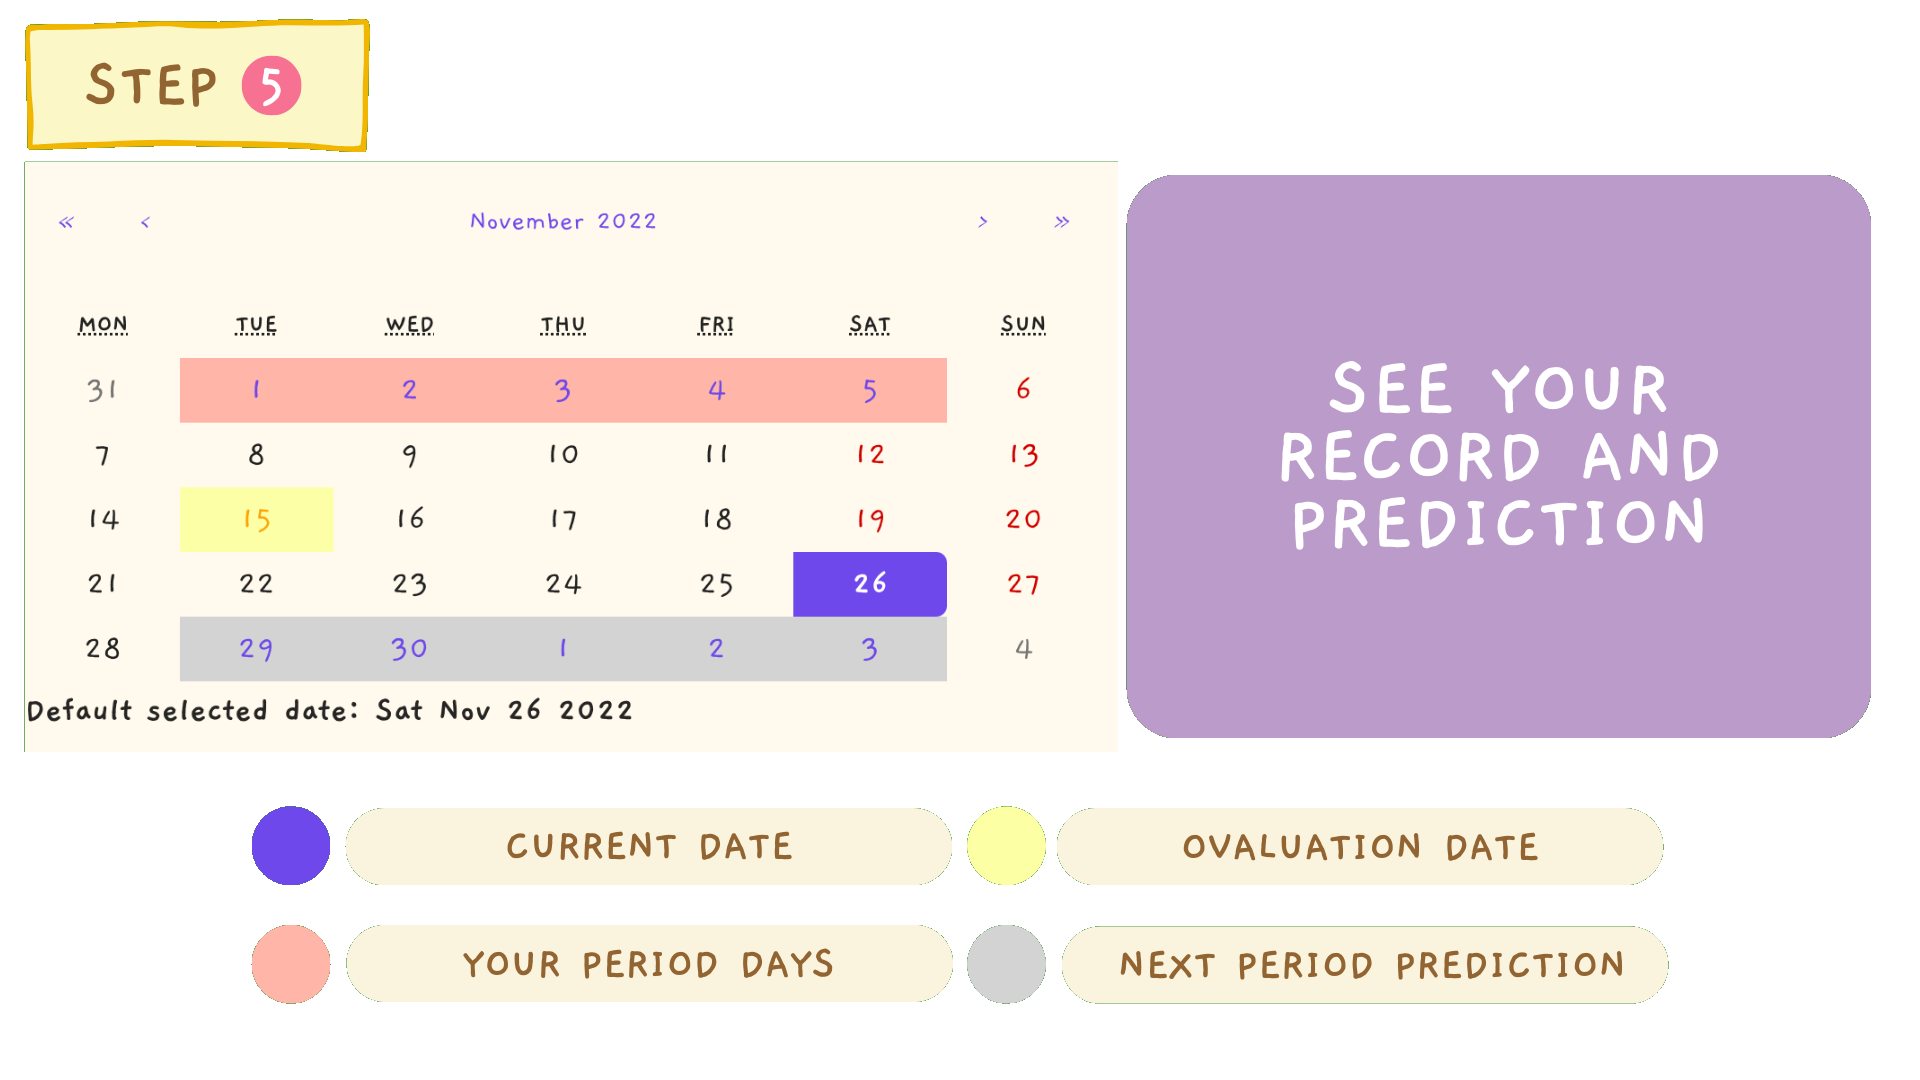
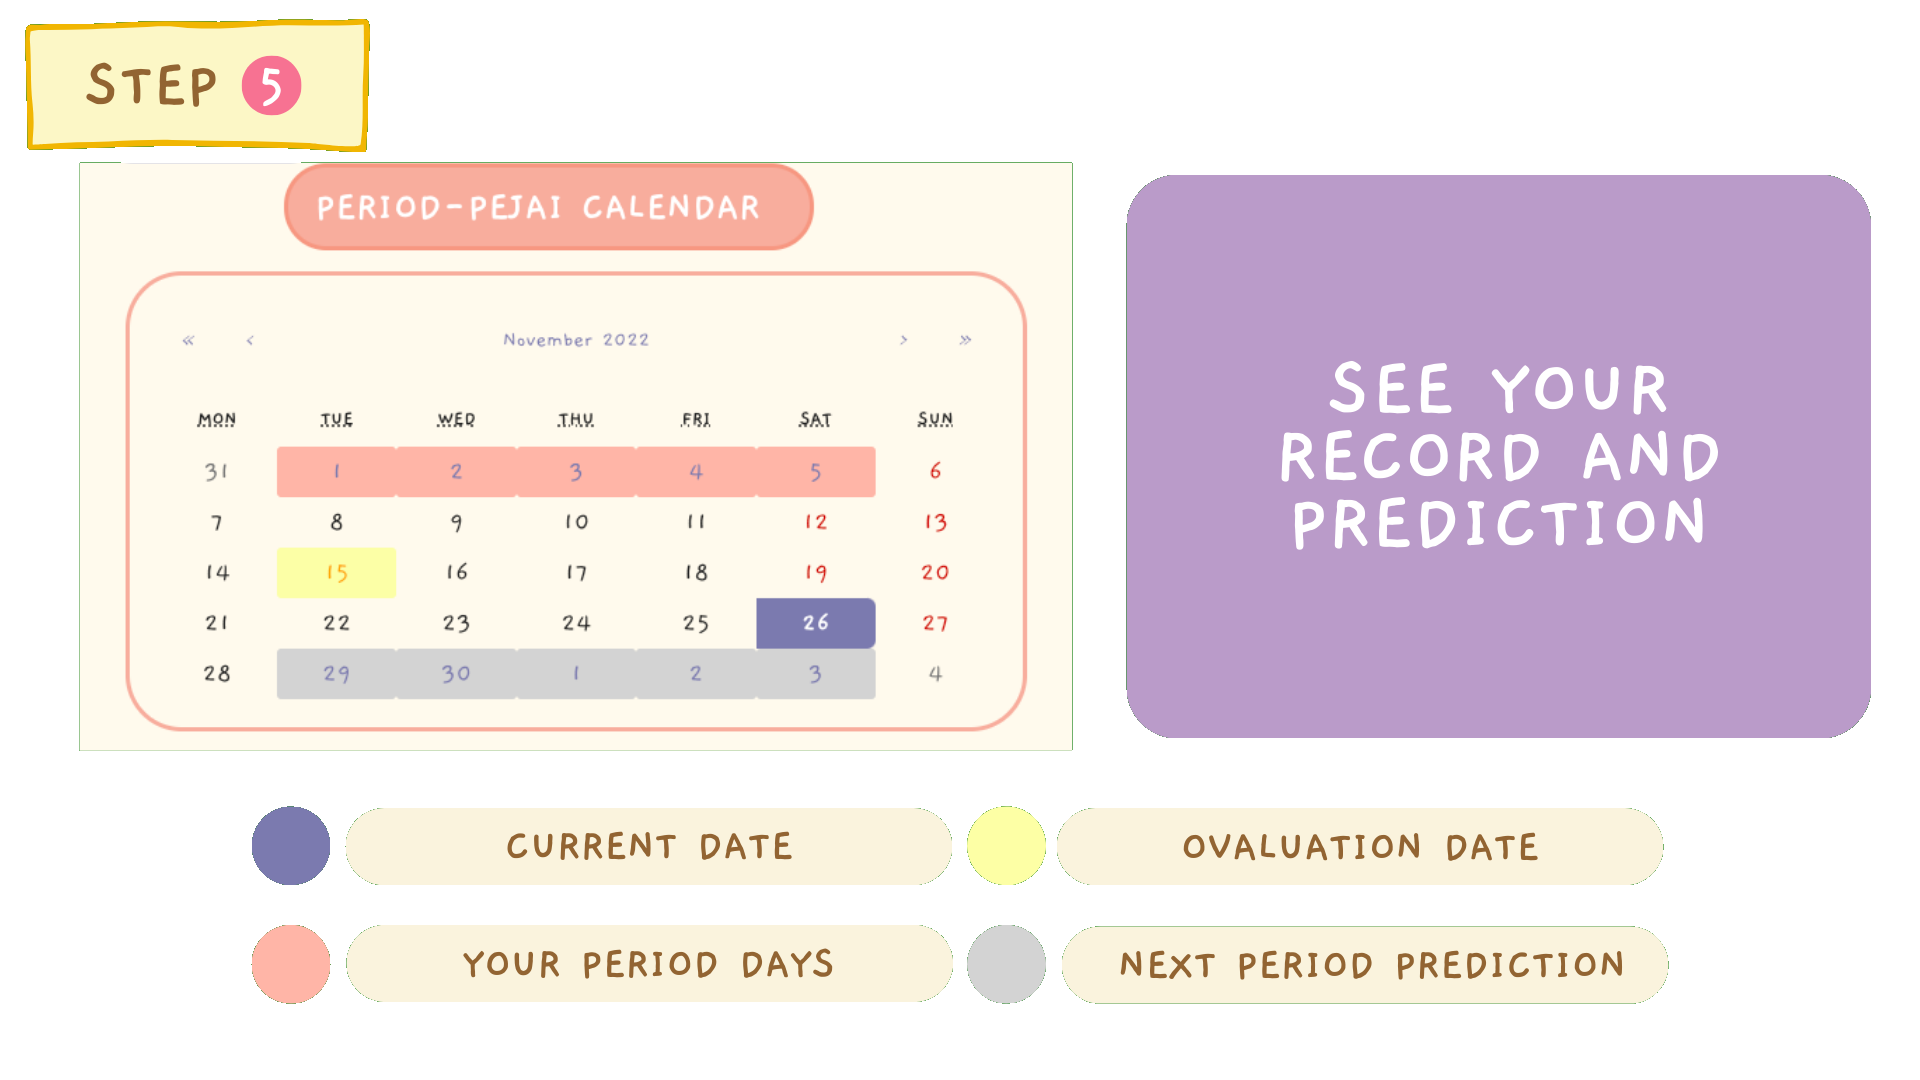
Add effect for save button and add instruction

diff --git a/front-end/src/components/Calendar.js b/front-end/src/components/Calendar.js
@@ -182,14 +182,14 @@ function Calendars({date, setDate, rangeDate, setRangeDate, period, luteal}) {
       
       {/* Use range date */}
       <p className='text-center'>When is your period come?</p>
-      <div className='diary-period' ><RangePicker classNsme="userperiod" onChange={onChange} disabledDate={(current) => {
-          let customDate = moment().format("YYYY-MM-DD");
-          return current && current < moment(customDate, "YYYY-MM-DD").subtract(2, 'M');
-        }} /> </div> 
-      {showBtn ? <button type="button" onClick={() => { submitDate()}} >Save</button> : null }
-        <br></br>
-    </div>
-    
+        <div className='diary-period' ><RangePicker classNsme="userperiod" onChange={onChange} disabledDate={(current) => {
+            let customDate = moment().format("YYYY-MM-DD");
+            return current && current < moment(customDate, "YYYY-MM-DD").subtract(2, 'M');
+          }} /> 
+        </div> 
+        {showBtn ? <button type="button" className="period-submit" onClick={() => { submitDate()}} >Save</button> : null }
+          <br></br>
+      </div>
   );
 }
 

diff --git a/front-end/src/components/Home.js b/front-end/src/components/Home.js
@@ -96,7 +96,7 @@ useEffect(() => {
         fetch(url_diary).then((res_diary) => {
             if (res_diary.status == 400) {
                 console.log("undefind")
-              }
+            }
             else {
                 
             res_diary.json().then((res_all_diary) => {
@@ -332,7 +332,7 @@ useEffect(async () => {
         const res_json = await res.json()
         console.log("predict_data",res_json.result)
         setPeriod(res_json.result)
-     }catch (error) {
+    }catch (error) {
         console.log(error)
     }
 }, [])

diff --git a/front-end/src/components/calendar.css b/front-end/src/components/calendar.css
@@ -200,3 +200,17 @@
 .backtosetting:hover, .backtologin:hover {
   border-color: #1377b5;
 }
+
+.period-submit {
+  margin-top: 15px;
+  margin-left: 15em;
+  cursor: pointer;
+  font-size: 20px;
+  font-family: 'Gaegu', cursive;
+  font-weight: bold;
+  background: #7B7AAF;
+  border-radius: 30px;
+  color: white;
+  height: 2em;
+  width: 5em;
+}
